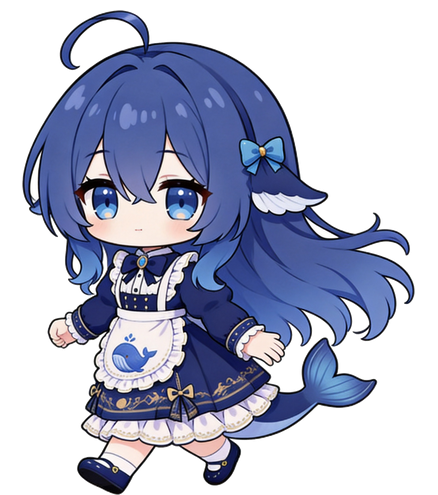
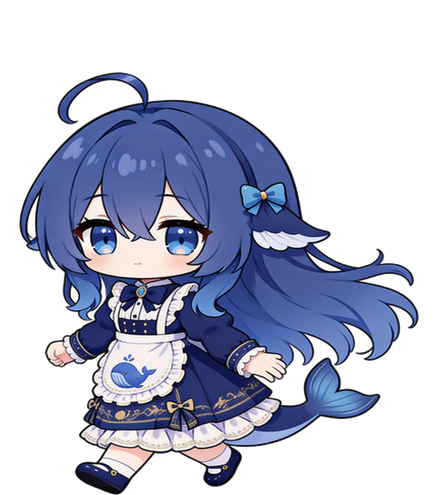
Add natural idle and walking motion

diff --git a/src/renderer/app.js b/src/renderer/app.js
@@ -18,7 +18,7 @@ const frameSequences = {
   ciallo: { names: ["ciallo", "ciallo-b"], interval: 420 }
 };
 const frameNames = [
-  "neutral", "walk", "walk-b", "wash", "work", "coffee", "toy", "sleep", "hungry",
+  "neutral", "blink", "walk", "walk-b", "wash", "work", "coffee", "toy", "sleep", "hungry",
   "sit", "pat", "feed", "shy", "trip", "cry", "think", "smug", "angry", "ciallo", "ciallo-b",
   "fly", "price", "panic", "rival", "shock", "pressure", "stranded", "stretch",
   "startle", "goAway"
@@ -51,6 +51,7 @@ let walkTimer;
 let walkStopTimer;
 let frameTimer;
 let frameLoopTimer;
+let blinkTimer;
 let walkPending = false;
 let walkDirection = -1;
 let drag;
@@ -80,7 +81,7 @@ function setFrame(name) {
 
 function stopFramePlayback(reset = true) {
   clearTimeout(frameTimer);
-  clearInterval(frameLoopTimer);
+  clearTimeout(frameLoopTimer);
   frameTimer = undefined;
   frameLoopTimer = undefined;
   if (reset) setFrame(restingFrame());
@@ -98,11 +99,14 @@ function playFrame(name, duration) {
 function startFrameLoop(names, interval = 220) {
   stopFramePlayback(false);
   let index = 0;
-  setFrame(names[index]);
-  frameLoopTimer = setInterval(() => {
-    index = (index + 1) % names.length;
+  const durations = Array.isArray(interval) ? interval : names.map(() => interval);
+  const advance = () => {
     setFrame(names[index]);
-  }, interval);
+    const duration = durations[index % durations.length] || 220;
+    index = (index + 1) % names.length;
+    frameLoopTimer = setTimeout(advance, duration);
+  };
+  advance();
 }
 
 function playBehaviorFrames(name, duration) {
@@ -182,7 +186,8 @@ function startWalk(duration = 7200, announce = true) {
   setExpression("happy");
   animate("walk", duration);
   appRoot.classList.add("is-walking");
-  startFrameLoop(["walk", "walk-b"]);
+  // Uneven timing gives the two full-body walk frames a small weight shift.
+  startFrameLoop(["walk", "walk-b", "walk-b", "walk"], [165, 235, 305, 190]);
   if (announce) say(behaviorApi.formatLine("walk"), behaviorLabels.walk, 3400);
   walkTimer = setInterval(async () => {
     if (walkPending || drag || !chatPanel.hidden) return;
@@ -380,7 +385,8 @@ stage.addEventListener("pointermove", (event) => {
   }
 });
 
-stage.addEventListener("pointerup", () => {
+stage.addEventListener("pointerup", (event) => {
+  if (event.button !== 0) return;
   const moved = drag?.total || 0;
   drag = undefined;
   if (moved > 10) {
@@ -407,6 +413,7 @@ stage.addEventListener("keydown", (event) => {
 
 document.addEventListener("contextmenu", (event) => {
   event.preventDefault();
+  say("干嘛？", "右键菜单", 2200);
   window.deepFish.showMenu();
 });
 
@@ -436,3 +443,20 @@ window.deepFish.getSettings().then(applySettings);
 applyClock();
 setInterval(applyClock, 60000);
 scheduleIdle();
+
+function scheduleBlink() {
+  clearTimeout(blinkTimer);
+  const delay = 2800 + Math.random() * 4200;
+  blinkTimer = setTimeout(() => {
+    const busy = drag || !chatPanel.hidden || frameTimer || frameLoopTimer || appRoot.classList.contains("is-walking");
+    if (!busy) {
+      const previousFrame = character.dataset.frame || restingFrame();
+      setFrame("blink");
+      setTimeout(() => {
+        if (character.dataset.frame === "blink") setFrame(previousFrame);
+      }, 135);
+    }
+    scheduleBlink();
+  }, delay);
+}
+scheduleBlink();

diff --git a/src/renderer/styles.css b/src/renderer/styles.css
@@ -348,7 +348,7 @@ button { -webkit-app-region: no-drag; }
 .pet-app.action-doze .character { animation: doze 2.4s ease-in-out; }
 .pet-app.action-spin .character { animation: spin 1s cubic-bezier(.2,.8,.2,1); }
 .pet-app.action-walk .character,
-.pet-app.is-walking .character { animation: walk-bob .5s ease-in-out infinite; }
+.pet-app.is-walking .character { animation: walk-bob .68s ease-in-out infinite; }
 .pet-app.action-wash .character { animation: wash 1s ease-in-out infinite; }
 .pet-app.action-work .character { animation: work 1.7s ease-in-out infinite; }
 .pet-app.action-coffee .character { animation: coffee 1.4s ease-in-out infinite; }
@@ -424,7 +424,7 @@ button { -webkit-app-region: no-drag; }
 @keyframes think { 0%,100% { transform: rotate(0); } 35% { transform: rotate(-4deg) translateX(-3px); } 70% { transform: rotate(3deg) translateX(2px); } }
 @keyframes doze { 0%,100% { transform: rotate(0) translateY(0); } 50% { transform: rotate(5deg) translateY(7px); } }
 @keyframes spin { from { transform: rotate(0); } to { transform: rotate(360deg); } }
-@keyframes walk-bob { 0%,100% { transform: translateY(0) rotate(-1deg); } 50% { transform: translateY(-7px) rotate(2deg); } }
+@keyframes walk-bob { 0%,100% { transform: translateY(0) rotate(-.6deg); } 34% { transform: translateY(-2px) rotate(.4deg); } 68% { transform: translateY(-3px) rotate(.7deg); } }
 @keyframes wash { 0%,100% { transform: rotate(-2deg) translateX(-2px); } 50% { transform: rotate(3deg) translateX(3px); } }
 @keyframes work { 0%,100% { transform: translateY(0) rotate(0); } 50% { transform: translateY(3px) rotate(-2deg); } }
 @keyframes coffee { 0%,100% { transform: rotate(0); } 35% { transform: rotate(4deg) translateY(-3px); } 70% { transform: rotate(-2deg); } }
@@ -462,9 +462,7 @@ button { -webkit-app-region: no-drag; }
   max-width: none;
   object-fit: contain;
   filter: none;
-  animation: none !important;
-  transform: none !important;
-  transition: none;
+  transition: filter 180ms ease, opacity 120ms ease;
 }
 
 .frame-mode .floor-shadow,

diff --git a/scripts/create-blink-frame.py b/scripts/create-blink-frame.py
@@ -1,0 +1,82 @@
+"""Create a closed-eye idle frame without moving the character or emblem."""
+
+from __future__ import annotations
+
+import argparse
+from pathlib import Path
+
+from PIL import Image, ImageDraw, ImageFilter
+
+
+REFERENCE_SIZE = (438, 495)
+
+
+def scaled_point(point: tuple[float, float], size: tuple[int, int], scale: int) -> tuple[int, int]:
+    x = point[0] * size[0] / REFERENCE_SIZE[0]
+    y = point[1] * size[1] / REFERENCE_SIZE[1]
+    return round(x * scale), round(y * scale)
+
+
+def quadratic_points(
+    start: tuple[float, float],
+    control: tuple[float, float],
+    end: tuple[float, float],
+    size: tuple[int, int],
+    scale: int,
+) -> list[tuple[int, int]]:
+    points = []
+    for step in range(25):
+        t = step / 24
+        x = (1 - t) ** 2 * start[0] + 2 * (1 - t) * t * control[0] + t**2 * end[0]
+        y = (1 - t) ** 2 * start[1] + 2 * (1 - t) * t * control[1] + t**2 * end[1]
+        points.append(scaled_point((x, y), size, scale))
+    return points
+
+
+def create_blink(source: Image.Image) -> Image.Image:
+    source = source.convert("RGBA")
+    scale = 4
+    mask = Image.new("L", (source.width * scale, source.height * scale), 0)
+    mask_draw = ImageDraw.Draw(mask)
+    skin = (251, 239, 234, 255)
+    lash = (73, 39, 53, 255)
+
+    eyes = (
+        ((128, 203), (187, 256), (135, 228), (158, 243), (181, 228), -1),
+        ((232, 203), (293, 256), (239, 228), (263, 243), (287, 228), 1),
+    )
+    for top_left, bottom_right, start, control, end, direction in eyes:
+        box = (*scaled_point(top_left, source.size, scale), *scaled_point(bottom_right, source.size, scale))
+        mask_draw.ellipse(box, fill=255)
+
+    mask = mask.filter(ImageFilter.GaussianBlur(1.5 * scale)).resize(source.size, Image.Resampling.LANCZOS)
+    source = Image.composite(Image.new("RGBA", source.size, skin), source, mask)
+
+    overlay = Image.new("RGBA", (source.width * scale, source.height * scale), (0, 0, 0, 0))
+    draw = ImageDraw.Draw(overlay)
+    for _top_left, _bottom_right, start, control, end, direction in eyes:
+        eyelid = quadratic_points(start, control, end, source.size, scale)
+        draw.line(eyelid, fill=lash, width=5 * scale, joint="curve")
+        outer = eyelid[0] if direction < 0 else eyelid[-1]
+        draw.line(
+            [outer, (outer[0] + direction * 7 * scale, outer[1] - 5 * scale)],
+            fill=lash,
+            width=3 * scale,
+        )
+
+    overlay = overlay.resize(source.size, Image.Resampling.LANCZOS)
+    return Image.alpha_composite(source, overlay)
+
+
+def main() -> None:
+    parser = argparse.ArgumentParser()
+    parser.add_argument("input", type=Path)
+    parser.add_argument("output", type=Path)
+    args = parser.parse_args()
+    args.output.parent.mkdir(parents=True, exist_ok=True)
+    create_blink(Image.open(args.input)).save(args.output, optimize=True)
+    print(args.output)
+
+
+if __name__ == "__main__":
+    main()

diff --git a/scripts/align-frame-to-reference.py b/scripts/align-frame-to-reference.py
@@ -1,0 +1,49 @@
+"""Align one transparent pet frame to another frame's visible bounds."""
+
+from __future__ import annotations
+
+import argparse
+from pathlib import Path
+
+import numpy as np
+from PIL import Image
+
+
+def visible_bounds(image: Image.Image) -> tuple[int, int, int, int]:
+    alpha = np.asarray(image.getchannel("A"))
+    ys, xs = np.where(alpha > 8)
+    if not len(xs):
+        raise RuntimeError("Frame has no visible pixels")
+    return int(xs.min()), int(ys.min()), int(xs.max() + 1), int(ys.max() + 1)
+
+
+def align_frame(frame: Image.Image, reference: Image.Image) -> Image.Image:
+    frame = frame.convert("RGBA")
+    reference = reference.convert("RGBA")
+    if frame.size != reference.size:
+        raise ValueError("Frame and reference canvases must have the same size")
+
+    source_bounds = visible_bounds(frame)
+    target_bounds = visible_bounds(reference)
+    content = frame.crop(source_bounds).resize(
+        (target_bounds[2] - target_bounds[0], target_bounds[3] - target_bounds[1]),
+        Image.Resampling.LANCZOS,
+    )
+    canvas = Image.new("RGBA", frame.size, (0, 0, 0, 0))
+    canvas.alpha_composite(content, target_bounds[:2])
+    return canvas
+
+
+def main() -> None:
+    parser = argparse.ArgumentParser()
+    parser.add_argument("input", type=Path)
+    parser.add_argument("reference", type=Path)
+    parser.add_argument("output", type=Path)
+    args = parser.parse_args()
+    args.output.parent.mkdir(parents=True, exist_ok=True)
+    align_frame(Image.open(args.input), Image.open(args.reference)).save(args.output, optimize=True)
+    print(args.output)
+
+
+if __name__ == "__main__":
+    main()

diff --git a/README.md b/README.md
@@ -7,13 +7,14 @@
 ## 功能
 
 - 透明、无边框、置顶桌宠窗口与系统托盘
+- 待机呼吸浮动与 2.8-7 秒不定时整帧眨眼
 - 点击、双击、拖拽、鼠标悬停和键盘操作反馈
 - 右键菜单：聊天、投喂、摸头、陪玩、置顶、设置、隐藏、退出
 - 生理时钟：清晨、专注、午饭、下午、晚间、睡眠七段状态
 - 自动散步、洗碗、加班喝咖啡、抱鲸鱼玩偶、坐下和睡觉场景
 - 头发、脸蛋、腿部区域感应：卖萌、害羞、绊倒，连续绊倒后会拿手帕哭哭
 - 饥饿咕咕叫、震惊蘑菇云、双枪模式、飞行、涨价和模型梗台词
-- 随机闲置彩蛋与 30 张固定锚点 PNG 表情、道具和动作帧
+- 随机闲置彩蛋与 31 张固定锚点 PNG 表情、道具和动作帧
 - 监听 Windows 锁屏、解锁和系统恢复事件
 - 解锁后随机触发“伸懒腰”或“惊醒”
 - 内置聊天面板，保留最近十轮上下文
@@ -41,7 +42,7 @@ npm start
 | 单击 | 触发点击台词和爱心粒子 |
 | 双击 | 打开聊天面板 |
 | 按住拖动 | 移动桌宠，松手后给出拖拽反馈 |
-| 右键 | 打开桌宠菜单与设置入口 |
+| 右键 | 回应“干嘛？”并打开桌宠菜单与设置入口 |
 | `Enter` / 空格 | 聚焦宠物后打开聊天 |
 
 关闭聊天或设置窗口不会退出桌宠；请从托盘或右键菜单选择“退出大肥鱼”。
@@ -107,7 +108,7 @@ deepfish-desktop-pet/
 
 ## 更换角色素材
 
-运行时会在 `assets/frames/` 中切换同尺寸、同锚点的透明 PNG，避免表情和道具随姿势发生错位。`frame-neutral.png` 是待机图，`frame-walk.png` 与 `frame-walk-b.png` 组成散步循环，其余 `frame-<动作>.png` 对应行为目录中的动作名称。替换角色时应成套重绘这些帧，并保持每张画布尺寸和脚底锚点一致；`assets/character.png` 保留为原始立绘与托盘图标来源。
+运行时会在 `assets/frames/` 中切换同尺寸、同锚点的透明 PNG，避免表情和道具随姿势发生错位。`frame-neutral.png` 是待机图，`frame-blink.png` 仅闭合双眼用于自然眨眼，`frame-walk.png` 与 `frame-walk-b.png` 组成变速散步循环，其余 `frame-<动作>.png` 对应行为目录中的动作名称。替换角色时应成套重绘这些帧，并保持每张画布尺寸和脚底锚点一致；`assets/character.png` 保留为原始立绘与托盘图标来源。
 
 新动作素材应先生成完整角色白底图，确认脸、双手、头发、裙摆、鲸尾和双脚都完整，再转换为项目帧。开发依赖为 Pillow 和 NumPy：
 
